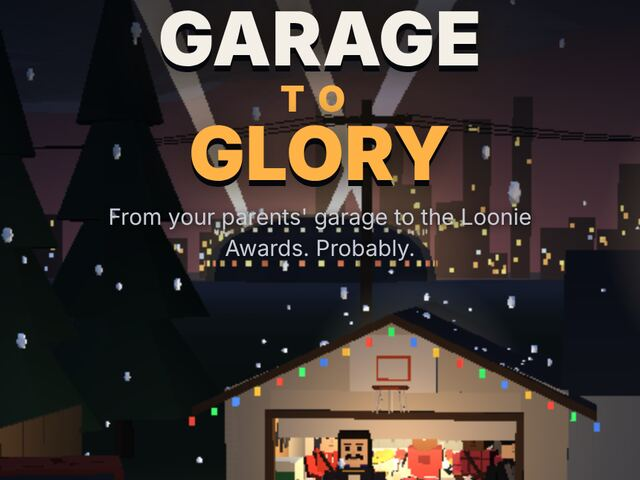
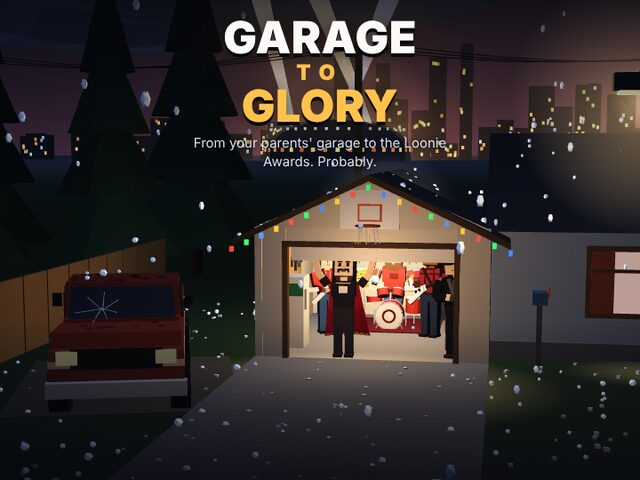
Add a neon link preview and cleaner game covers (#9)
- New link preview card (assets/social-preview.jpg, 1200x630) in the neon
  arcade style with the four game covers, plus og:/twitter: tags on every
  page so shared links show it.
- Retook the Garage to Glory cover in landscape without the menu buttons,
  and the Prairie Engine Works cover as a close 3/4 shot of the engine with
  the game's panels hidden.
- README and CLAUDE.md explain the preview and the absolute-URL exception.

Claude-Session: https://claude.ai/code/session_016QaTkMKy8nw5ihBrZfYzcJ

diff --git a/tools/prediction-tracker/index.html b/tools/prediction-tracker/index.html
@@ -5,6 +5,20 @@
   <meta name="viewport" content="width=device-width, initial-scale=1">
   <title>Prediction Tracker · Colby Joyes</title>
   <meta name="description" content="Log predictions with how sure you are, grade them later, and see how well-calibrated your calls really are. Everything stays on your own device.">
+  <!-- Link preview: the card that shows up when this page is shared in a
+       text, Discord, X, etc. These links have to be full web addresses
+       (not relative), because the apps that read them aren't on this site.
+       The picture is assets/social-preview.jpg (1200x630). -->
+  <meta property="og:type" content="website">
+  <meta property="og:site_name" content="Colby Joyes">
+  <meta property="og:title" content="Prediction Tracker · Colby Joyes">
+  <meta property="og:description" content="Log predictions with how sure you are, grade them later, and see how well-calibrated your calls really are. Everything stays on your own device.">
+  <meta property="og:url" content="https://jxstrr0.github.io/Kelbo.Website/tools/prediction-tracker/">
+  <meta property="og:image" content="https://jxstrr0.github.io/Kelbo.Website/assets/social-preview.jpg">
+  <meta property="og:image:width" content="1200">
+  <meta property="og:image:height" content="630">
+  <meta property="og:image:alt" content="Colby Joyes in neon letters beside screenshots of four of his games.">
+  <meta name="twitter:card" content="summary_large_image">
   <link rel="icon" href="../../assets/favicon.svg" type="image/svg+xml">
 
   <link rel="preconnect" href="https://fonts.googleapis.com">

diff --git a/games.html b/games.html
@@ -5,6 +5,20 @@
   <meta name="viewport" content="width=device-width, initial-scale=1">
   <title>Games · Colby Joyes</title>
   <meta name="description" content="Browser games by Colby Joyes. Play them on your phone or computer, or look at the code.">
+  <!-- Link preview: the card that shows up when this page is shared in a
+       text, Discord, X, etc. These links have to be full web addresses
+       (not relative), because the apps that read them aren't on this site.
+       The picture is assets/social-preview.jpg (1200x630). -->
+  <meta property="og:type" content="website">
+  <meta property="og:site_name" content="Colby Joyes">
+  <meta property="og:title" content="Games · Colby Joyes">
+  <meta property="og:description" content="Browser games by Colby Joyes. Play them on your phone or computer, or look at the code.">
+  <meta property="og:url" content="https://jxstrr0.github.io/Kelbo.Website/games.html">
+  <meta property="og:image" content="https://jxstrr0.github.io/Kelbo.Website/assets/social-preview.jpg">
+  <meta property="og:image:width" content="1200">
+  <meta property="og:image:height" content="630">
+  <meta property="og:image:alt" content="Colby Joyes in neon letters beside screenshots of four of his games.">
+  <meta name="twitter:card" content="summary_large_image">
   <link rel="icon" href="assets/favicon.svg" type="image/svg+xml">
 
   <link rel="preconnect" href="https://fonts.googleapis.com">

diff --git a/projects.html b/projects.html
@@ -5,6 +5,20 @@
   <meta name="viewport" content="width=device-width, initial-scale=1">
   <title>Projects · Colby Joyes</title>
   <meta name="description" content="Games, tools, and AI projects by Colby Joyes, from planned to shipped.">
+  <!-- Link preview: the card that shows up when this page is shared in a
+       text, Discord, X, etc. These links have to be full web addresses
+       (not relative), because the apps that read them aren't on this site.
+       The picture is assets/social-preview.jpg (1200x630). -->
+  <meta property="og:type" content="website">
+  <meta property="og:site_name" content="Colby Joyes">
+  <meta property="og:title" content="Projects · Colby Joyes">
+  <meta property="og:description" content="Games, tools, and AI projects by Colby Joyes, from planned to shipped.">
+  <meta property="og:url" content="https://jxstrr0.github.io/Kelbo.Website/projects.html">
+  <meta property="og:image" content="https://jxstrr0.github.io/Kelbo.Website/assets/social-preview.jpg">
+  <meta property="og:image:width" content="1200">
+  <meta property="og:image:height" content="630">
+  <meta property="og:image:alt" content="Colby Joyes in neon letters beside screenshots of four of his games.">
+  <meta name="twitter:card" content="summary_large_image">
   <link rel="icon" href="assets/favicon.svg" type="image/svg+xml">
 
   <link rel="preconnect" href="https://fonts.googleapis.com">

diff --git a/index.html b/index.html
@@ -5,6 +5,20 @@
   <meta name="viewport" content="width=device-width, initial-scale=1">
   <title>Colby Joyes</title>
   <meta name="description" content="Colby Joyes builds games, tools, and AI projects from Saskatoon, Saskatchewan.">
+  <!-- Link preview: the card that shows up when this page is shared in a
+       text, Discord, X, etc. These links have to be full web addresses
+       (not relative), because the apps that read them aren't on this site.
+       The picture is assets/social-preview.jpg (1200x630). -->
+  <meta property="og:type" content="website">
+  <meta property="og:site_name" content="Colby Joyes">
+  <meta property="og:title" content="Colby Joyes">
+  <meta property="og:description" content="Colby Joyes builds games, tools, and AI projects from Saskatoon, Saskatchewan.">
+  <meta property="og:url" content="https://jxstrr0.github.io/Kelbo.Website/">
+  <meta property="og:image" content="https://jxstrr0.github.io/Kelbo.Website/assets/social-preview.jpg">
+  <meta property="og:image:width" content="1200">
+  <meta property="og:image:height" content="630">
+  <meta property="og:image:alt" content="Colby Joyes in neon letters beside screenshots of four of his games.">
+  <meta name="twitter:card" content="summary_large_image">
   <link rel="icon" href="assets/favicon.svg" type="image/svg+xml">
 
   <!-- Fonts: Space Grotesk for text, Press Start 2P for small pixel accents -->

diff --git a/trading.html b/trading.html
@@ -5,6 +5,20 @@
   <meta name="viewport" content="width=device-width, initial-scale=1">
   <title>Trading · Colby Joyes</title>
   <meta name="description" content="Trading tools Colby Joyes is building for his own trading day.">
+  <!-- Link preview: the card that shows up when this page is shared in a
+       text, Discord, X, etc. These links have to be full web addresses
+       (not relative), because the apps that read them aren't on this site.
+       The picture is assets/social-preview.jpg (1200x630). -->
+  <meta property="og:type" content="website">
+  <meta property="og:site_name" content="Colby Joyes">
+  <meta property="og:title" content="Trading · Colby Joyes">
+  <meta property="og:description" content="Trading tools Colby Joyes is building for his own trading day.">
+  <meta property="og:url" content="https://jxstrr0.github.io/Kelbo.Website/trading.html">
+  <meta property="og:image" content="https://jxstrr0.github.io/Kelbo.Website/assets/social-preview.jpg">
+  <meta property="og:image:width" content="1200">
+  <meta property="og:image:height" content="630">
+  <meta property="og:image:alt" content="Colby Joyes in neon letters beside screenshots of four of his games.">
+  <meta name="twitter:card" content="summary_large_image">
   <link rel="icon" href="assets/favicon.svg" type="image/svg+xml">
 
   <link rel="preconnect" href="https://fonts.googleapis.com">

diff --git a/ai.html b/ai.html
@@ -5,6 +5,20 @@
   <meta name="viewport" content="width=device-width, initial-scale=1">
   <title>AI · Colby Joyes</title>
   <meta name="description" content="AI projects and small bots by Colby Joyes.">
+  <!-- Link preview: the card that shows up when this page is shared in a
+       text, Discord, X, etc. These links have to be full web addresses
+       (not relative), because the apps that read them aren't on this site.
+       The picture is assets/social-preview.jpg (1200x630). -->
+  <meta property="og:type" content="website">
+  <meta property="og:site_name" content="Colby Joyes">
+  <meta property="og:title" content="AI · Colby Joyes">
+  <meta property="og:description" content="AI projects and small bots by Colby Joyes.">
+  <meta property="og:url" content="https://jxstrr0.github.io/Kelbo.Website/ai.html">
+  <meta property="og:image" content="https://jxstrr0.github.io/Kelbo.Website/assets/social-preview.jpg">
+  <meta property="og:image:width" content="1200">
+  <meta property="og:image:height" content="630">
+  <meta property="og:image:alt" content="Colby Joyes in neon letters beside screenshots of four of his games.">
+  <meta name="twitter:card" content="summary_large_image">
   <link rel="icon" href="assets/favicon.svg" type="image/svg+xml">
 
   <link rel="preconnect" href="https://fonts.googleapis.com">

diff --git a/README.md b/README.md
@@ -20,7 +20,7 @@ you save on the `main` branch goes live within a minute or two.
 | `projects.json` | **The list of projects.** Edit this to add or change one |
 | `style.css` | Colours, fonts, and layout for every page |
 | `main.js` | Reads `projects.json` and puts the projects on the page |
-| `assets/` | Images, game cover screenshots (`assets/covers/`), and the browser-tab icon |
+| `assets/` | Images, game cover screenshots (`assets/covers/`), the link preview picture, and the browser-tab icon |
 | `tools/prediction-tracker/` | The Prediction Tracker tool (its own page, styles, and script) |
 | `.nojekyll` | Tells GitHub Pages to serve the files as-is. Leave it alone |
 
@@ -112,7 +112,20 @@ exact spot.
    Keep photos under about 500 KB so the site stays fast on phones.
 
 To change the browser-tab icon, replace `assets/favicon.svg` (or upload a
-`favicon.png` and change `favicon.svg` to `favicon.png` in both HTML files).
+`favicon.png` and change `favicon.svg` to `favicon.png` in every page).
+
+### The link preview
+
+When someone shares a link to the site in a text, Discord, or X, the app
+shows a preview card. That card is `assets/social-preview.jpg` (1200×630).
+To change it, upload a new picture with the same name and size. Apps
+remember old previews for a while, so a change can take a day or so to show
+up when you share the link.
+
+The preview's title and description come from the `og:` lines near the top
+of each page. Those are the one place on the site that uses full web
+addresses (`https://jxstrr0.github.io/...`), because the apps reading them
+aren't on this site. If the site ever moves to its own domain, update them.
 
 ## Add a new section
 

diff --git a/CLAUDE.md b/CLAUDE.md
@@ -23,7 +23,11 @@ Live at https://jxstrr0.github.io/Kelbo.Website/
   (semantic HTML, visible focus, good contrast, alt text,
   `prefers-reduced-motion`).
 - Use relative links only, because the site lives under `/Kelbo.Website/`
-  and may move to a custom domain later.
+  and may move to a custom domain later. The one exception is the `og:`
+  link-preview tags in each page's `<head>`, which must be absolute; update
+  them if the domain changes.
+- The link preview image is `assets/social-preview.jpg` (1200×630, the neon
+  look plus the four game covers). Regenerate it if the covers change a lot.
 
 ## Where things live
 
